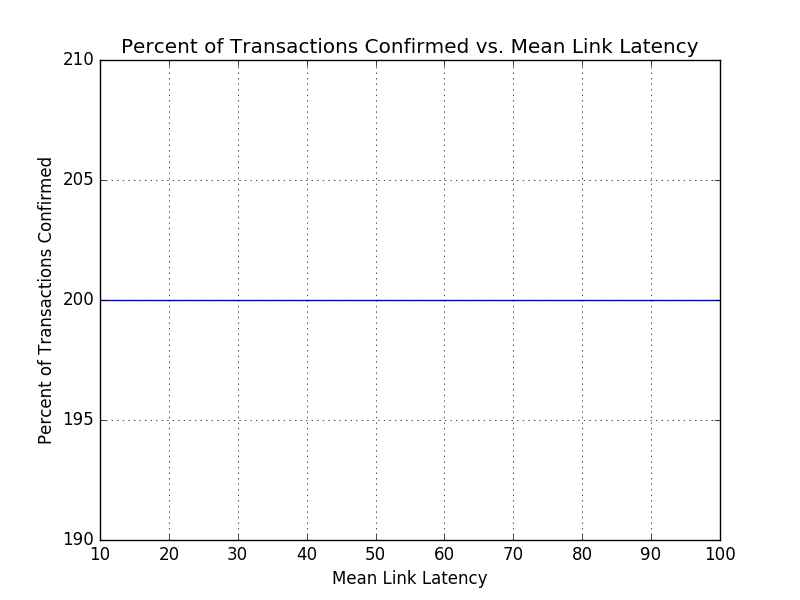
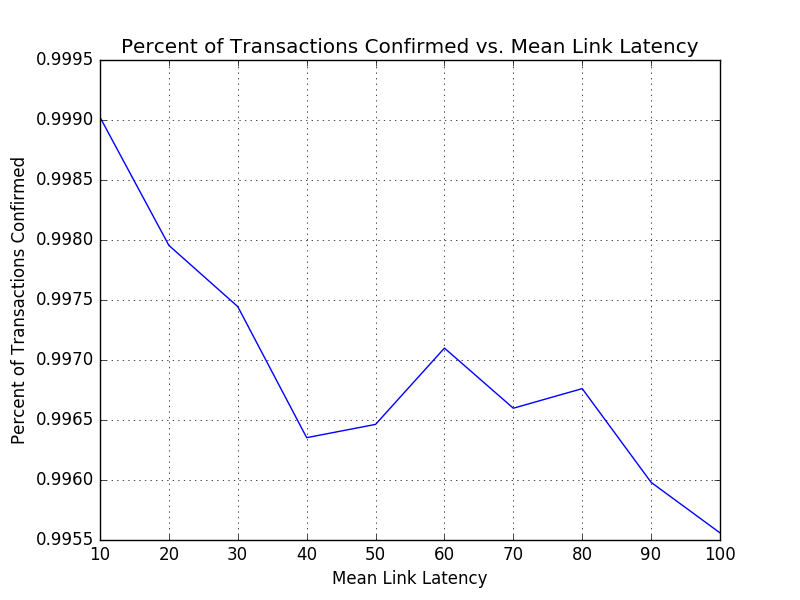
Updated pictures and fixed grapher.py

diff --git a/src/grapher.py b/src/grapher.py
@@ -19,7 +19,7 @@ def one_run(which_result, *args):
     num_transactions = int(lines[5].split()[3])
     avg_ttc = float(lines[6].split()[2])
     avg_fee = float(lines[7].split()[3])
-    percent_confirmed = float(lines[4].split()[3])
+    percent_confirmed = float(lines[8].split()[3])
 
     if which_result == 0:
         return avg_ttc
